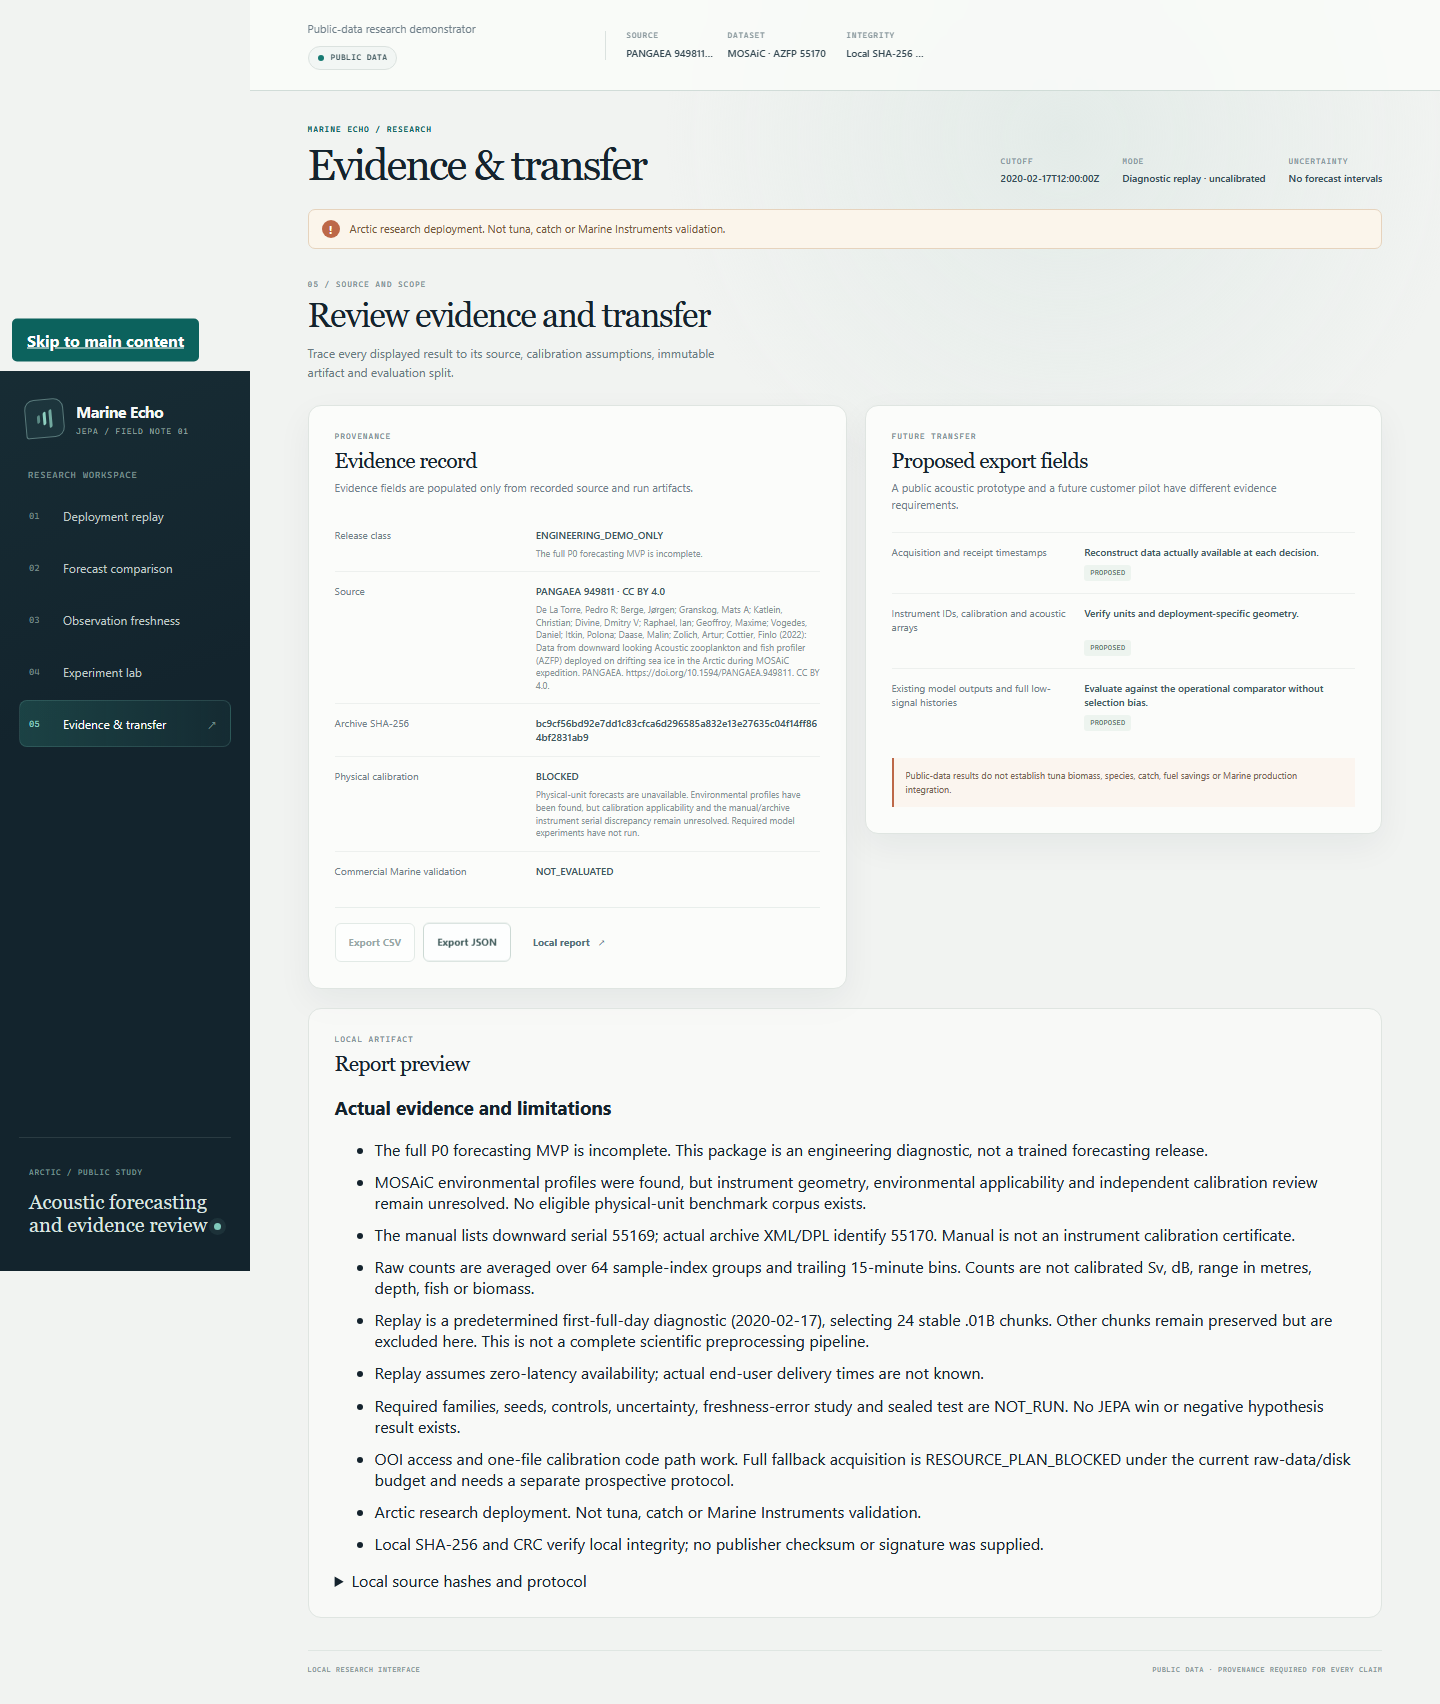
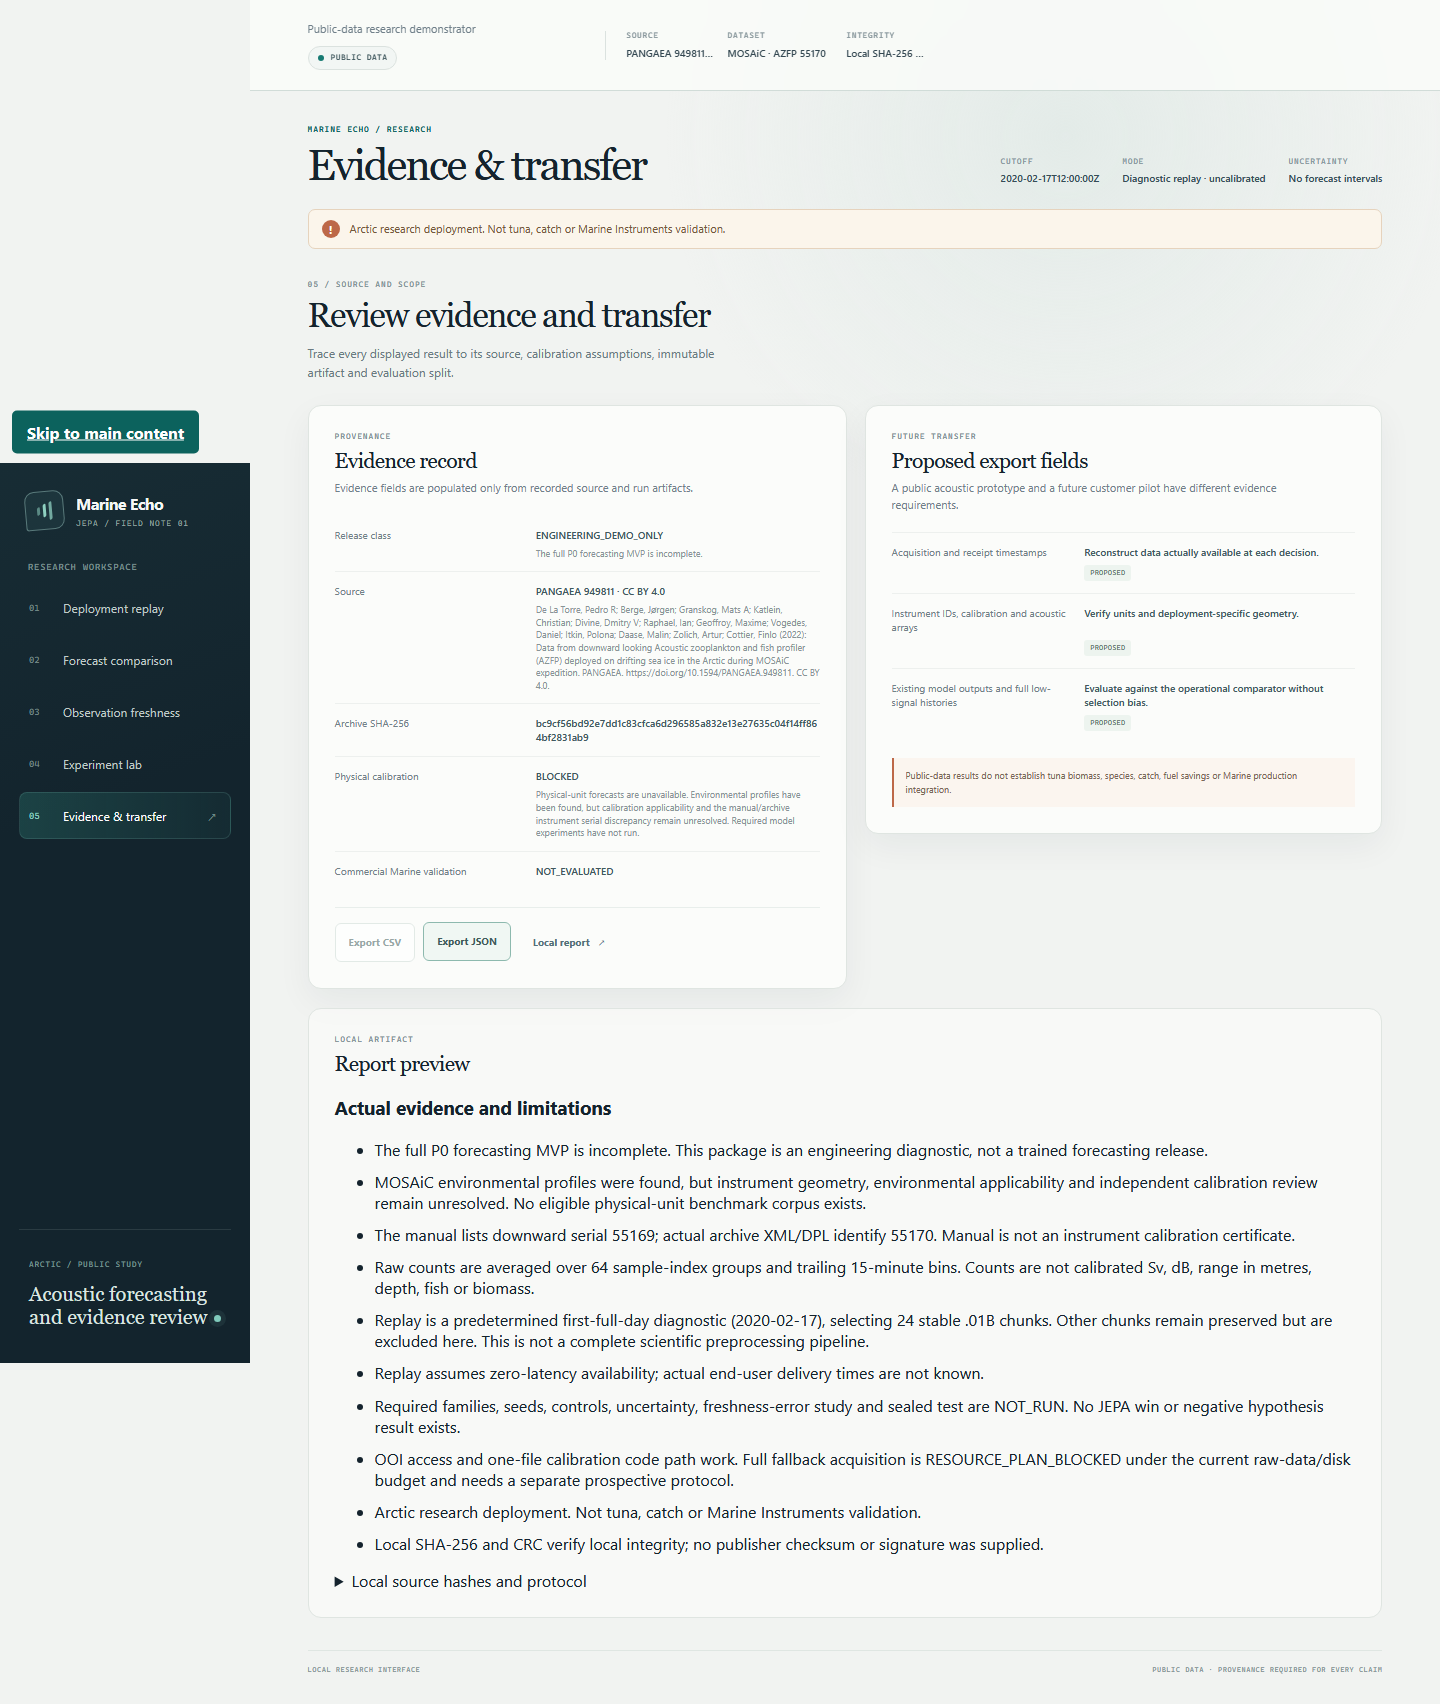
perf: defer hidden observation tables and validate offline navigation

Changed region(s): [[0.0, 0.1866, 0.1875, 0.4977], [0.0, 0.6843, 0.1875, 0.8087], [0.3125, 0.5288, 0.3438, 0.5599]]

diff --git a/web/src/charts/RawEchogram.tsx b/web/src/charts/RawEchogram.tsx
@@ -1,4 +1,4 @@
-import { useEffect, useRef } from "react";
+import { useEffect, useRef, useState } from "react";
 import type { ObservationRow } from "../api/client";
 
 export function RawEchogram({
@@ -11,6 +11,7 @@ export function RawEchogram({
   label: string;
 }) {
   const canvas = useRef<HTMLCanvasElement>(null);
+  const [tableOpen, setTableOpen] = useState(false);
   useEffect(() => {
     const ctx = canvas.current?.getContext("2d");
     if (!ctx || !canvas.current) return;
@@ -54,34 +55,36 @@ export function RawEchogram({
         Fixed colour scale: 0–65,535 digitizer counts. Grey cells are missing.
         Vertical groups represent instrument samples, not metres or depth.
       </p>
-      <details>
+      <details onToggle={(event) => setTableOpen(event.currentTarget.open)}>
         <summary>Accessible observation table ({rows.length} bins)</summary>
-        <div className="table-scroll">
-          <table>
-            <thead>
-              <tr>
-                <th>UTC bin end</th>
-                <th>Pings</th>
-                {Array.from({ length: 64 }, (_, group) => (
-                  <th key={group}>Group {group} · raw counts</th>
-                ))}
-              </tr>
-            </thead>
-            <tbody>
-              {rows.map((row) => (
-                <tr key={row.event_time_utc}>
-                  <td>{row.event_time_utc}</td>
-                  <td>{row.ping_count}</td>
+        {tableOpen && (
+          <div className="table-scroll">
+            <table>
+              <thead>
+                <tr>
+                  <th>UTC bin end</th>
+                  <th>Pings</th>
                   {Array.from({ length: 64 }, (_, group) => (
-                    <td key={group}>
-                      {row.counts[channel]?.[group]?.toFixed(1) ?? "Missing"}
-                    </td>
+                    <th key={group}>Group {group} · raw counts</th>
                   ))}
                 </tr>
-              ))}
-            </tbody>
-          </table>
-        </div>
+              </thead>
+              <tbody>
+                {rows.map((row) => (
+                  <tr key={row.event_time_utc}>
+                    <td>{row.event_time_utc}</td>
+                    <td>{row.ping_count}</td>
+                    {Array.from({ length: 64 }, (_, group) => (
+                      <td key={group}>
+                        {row.counts[channel]?.[group]?.toFixed(1) ?? "Missing"}
+                      </td>
+                    ))}
+                  </tr>
+                ))}
+              </tbody>
+            </table>
+          </div>
+        )}
       </details>
     </div>
   );

diff --git a/web/tests/offline.spec.ts b/web/tests/offline.spec.ts
@@ -1,5 +1,6 @@
 import { test, expect } from '@playwright/test';
 import { resolve } from 'node:path';
+import { writeFileSync } from 'node:fs';
 
 test('offline real replay, unavailable forecast, reveal, evidence and export', async ({page}) => {
   const external: string[] = [];
@@ -85,4 +86,21 @@ test('mobile fits, keyboard focus and refresh preserve cutoff', async ({page}) =
   await page.reload();
   await expect(page.getByLabel('Prediction cutoff (UTC)')).toHaveValue('2020-02-17T18:00:00Z');
   await page.screenshot({path:resolve(import.meta.dirname, '../../evidence/browser/mobile.png'),fullPage:true});
+});
+
+test('bounded replay navigation meets the declared latency target', async ({page}) => {
+  await page.goto('/');
+  await expect(page.getByRole('img', {name:/Observed before cutoff/})).toBeVisible();
+  const samples: number[] = [];
+  for (let i = 0; i < 20; i++) {
+    const hour = i % 2 ? 18 : 6;
+    const started = performance.now();
+    await page.getByLabel('Prediction cutoff (UTC)').selectOption(`2020-02-17T${String(hour).padStart(2,'0')}:00:00Z`);
+    await expect(page.getByRole('img', {name:`Observed before cutoff: ${hour*4} observed time bins; raw counts, sample-index axis. Accessible table below.`,exact:true})).toBeVisible();
+    samples.push(performance.now()-started);
+  }
+  const sorted = [...samples].sort((a,b) => a-b);
+  const p95 = sorted[Math.ceil(.95*sorted.length)-1];
+  writeFileSync(resolve(import.meta.dirname,'../../evidence/browser/navigation-latency.json'),JSON.stringify({metric:'UI cutoff change through rendered observation canvas',samples_ms:samples,p95_ms:p95,target_ms:300,live_forecast_latency:null,live_forecast_status:'NOT_RUN_NO_MODEL'},null,2));
+  expect(p95).toBeLessThanOrEqual(300);
 });

diff --git a/web/playwright.config.ts b/web/playwright.config.ts
@@ -3,7 +3,7 @@ import { resolve } from 'node:path';
 const copiedRelease = process.env.MARINE_RELEASE_PATH;
 const command = copiedRelease
   ? `powershell.exe -NoProfile -ExecutionPolicy Bypass -File "${resolve(copiedRelease, 'Run-Demo.ps1')}" -Port 8767`
-  : `"${resolve(import.meta.dirname, '../.venv/Scripts/python.exe')}" -m marine_echo.serving.cli serve --port 8767 --artifact-root "${resolve(import.meta.dirname, '../release/demo-20260926/artifacts')}"`;
+  : `"${resolve(import.meta.dirname, '../.venv/Scripts/python.exe')}" -m marine_echo.serving.cli serve --port 8767 --artifact-root "${resolve(import.meta.dirname, '../release/demo-20260926-r2/artifacts')}"`;
 export default defineConfig({
   testDir: './tests', timeout: 30000, workers: 1,
   use: { baseURL: 'http://127.0.0.1:8767', browserName: 'chromium' },

diff --git a/tools/package_diagnostic.py b/tools/package_diagnostic.py
@@ -9,12 +9,13 @@ from pathlib import Path
 
 root = Path(__file__).resolve().parents[1]
 output = Path(sys.argv[1]).resolve()
+demo_source = sys.argv[2] if len(sys.argv) > 2 else "release/demo-20260926"
 if output.exists():
     raise FileExistsError("Choose a new package directory; published files are immutable.")
 output.mkdir(parents=True)
 for name in ["README_RUN.md", "REPORT.md", "DATA_CARD.md", "MODEL_CARD.md", "LIMITATIONS.md", "MARINE_DATA_REQUEST.md", "THIRD_PARTY_NOTICES.md", "requirements-app.txt", "Run-Demo.ps1", "Verify-Release.py"]:
     shutil.copy2(root / "release" / name, output / name)
-for source, target in [("release/demo-20260926", "demo"), ("release/wheelhouse", "wheelhouse"), ("src", "src"), ("references/licenses", "licenses"), ("orchestration", "orchestration"), ("evidence/tests", "evidence/test_logs"), ("evidence/browser", "evidence/browser"), ("evidence/models", "evidence/models"), ("evidence/runtime", "evidence/runtime"), ("evidence/calibration", "evidence/calibration"), ("reports/active", "evidence/active"), ("data/manifests/mosaic_azfp_down_2020", "evidence/source_manifest")]:
+for source, target in [(demo_source, "demo"), ("release/wheelhouse", "wheelhouse"), ("src", "src"), ("references/licenses", "licenses"), ("orchestration", "orchestration"), ("evidence/tests", "evidence/test_logs"), ("evidence/browser", "evidence/browser"), ("evidence/models", "evidence/models"), ("evidence/runtime", "evidence/runtime"), ("evidence/calibration", "evidence/calibration"), ("reports/active", "evidence/active"), ("data/manifests/mosaic_azfp_down_2020", "evidence/source_manifest")]:
     shutil.copytree(root / source, output / target, ignore=shutil.ignore_patterns("__pycache__", "*.pyc"))
 locks = output / "requirements-locks"
 locks.mkdir()

diff --git a/orchestration/STATUS.md b/orchestration/STATUS.md
@@ -1,26 +1,33 @@
 # Execution status
 
-P0 INCOMPLETE — native agent service usage limit; scientific calibration and implementation open.
+P0 INCOMPLETE. Native agent service usage limits interrupted all three required agents.
+Calibration applicability, full scientific implementation and independent approvals remain open.
 
-Read orchestration/reports/P0_CHECKPOINT.md and docs/adr/0003-environmental-research.md first.
-The original five local sources remain immutable. Do not redownload them. Extracted 3744 files
-remain in ../marine-echo-jepa-core/data/raw/pangaea/mosaic_azfp_down_2020_extracted.
-The new environmental sources are data/raw/environment/mosaic_core; do not redownload valid files.
+Read orchestration/reports/P0_CHECKPOINT.md and docs/adr/0003-environmental-research.md.
+The five original files remain immutable at data/raw/pangaea/949811. Extracted files remain at
+../marine-echo-jepa-core/data/raw/pangaea/mosaic_azfp_down_2020_extracted. New environmental
+sources and hashes are under data/raw/environment/mosaic_core and evidence/calibration.
+Do not redownload valid sources. Do not silently change D1 or the scientific protocol.
 
-Main code includes tested baselines, direct/EMA/shared-SIGReg candidates, controls, hybrid heads
-and bounded training helpers. No real benchmark was run. Full preprocessing/train/evaluation
-orchestration remains unfinished. R0/R1 scientific gates unresolved; R2neverapproved; test sealed.
+Implemented model software, real raw-count replay, read-only API and English app are tested.
+No real benchmark has run. Full calibrated preprocessing/train/evaluation orchestration is
+unfinished. R0/R1 scientific findings remain open; R2 was never approved; final test stays sealed.
+Required 25 runs are BLOCKED with null metrics. JEPA and commercial value remain NOT_EVALUATED.
 
-Actual checks:54 app/data tests,2 frontend unit tests,4 fresh-server browser tests passed.
-Core 17 model/GPU checks passed;100 updates 16.87 seconds, peakreserved 100 MiB.
-Final native independent R3 and Sol review of Luna drafts are BLOCKED by service usage limits.
-No silent model substitution is authorized. Resume configured agents when access returns.
+Checks: 54 app/data tests, 2 frontend unit tests and 5 fresh-server browser tests passed.
+Core model suite: 17 passed including CUDA profile; integrated rerun: 16 passed, 1 explicit
+skip of the already executed 100-update profile. Peak GPU reserved memory: 100 MiB.
+The first copied package passed functional tests but failed navigation p95 (433 ms).
+Lazy rendering of the closed accessibility table fixed the observed issue: fresh-server
+p95 192 ms. The revised portable package is undergoing its own copied-release verification.
 
-GPU owner:none. No ongoing training. Owned diagnostic serverPID47628,port 8765 (old preview)
-will be stopped during release verification. Cloud:notauthorized; infrastructureUSD 0.
-Current work:finish portable package, integrity/corruption checks and fresh relocated browser run.
+Native independent R3 and Sol review of Luna drafts remain blocked by the service quota.
+No substitute model or independent approval is claimed. Resume the configured agents when
+access returns. Existing source branches/worktrees and reports preserve their work.
 
-Safe resume:inspect processes and source/git state; read evidence/calibration/environment_applicability.json;
-obtain independent review of prospective environment mapping and geometry before claiming Sv;
-complete canonical pipeline and required orchestration, then follow frozen protocol and review gates.
-Do not reopen or reinterpret synthetic smoke checks as experimental outcomes.
+GPU owner: none. No training is running. The old owned preview server was stopped.
+Cloud unauthorized; infrastructure paid/committed: USD 0.
+
+Safe next step: finish revised package verification; resume native review when service access
+returns; validate prospective environmental matching, TEOS-10 conversion and instrument geometry;
+complete canonical pipeline and experiment orchestration, then follow frozen protocol/review gates.

diff --git a/release/README_RUN.md b/release/README_RUN.md
@@ -7,14 +7,14 @@ Independent final approval is blocked by the native-agent service usage limit.
 On this Windows 11 machine, extract the ZIP to a new folder and run:
 
 ```powershell
-powershell -NoProfile -ExecutionPolicy Bypass -File .\Run-Demo.ps 1 -Port 8765
+powershell -NoProfile -ExecutionPolicy Bypass -File .\Run-Demo.ps1 -Port 8765
 ```
 
 Open http://127.0.0.1:8765. Stop with Ctrl+C. The application binds to loopback only.
 There are no external assets, login, telemetry or hosted services. Forecast requests return
 an explicit unavailable status; revealing later measurements does not change model inputs.
 
-Prerequisites: Windows x 64, `uv`, and an already installed or uv-cached Python 3.12. The
+Prerequisites: Windows x64, `uv`, and an already installed or uv-cached Python 3.12. The
 launcher uses `--offline` and the packaged wheelhouse to create its local environment. It
 does not download Python or packages. First dependency installation is separate from normal
 cold startup. If another process owns the port, choose a different port. Do not stop unrelated
